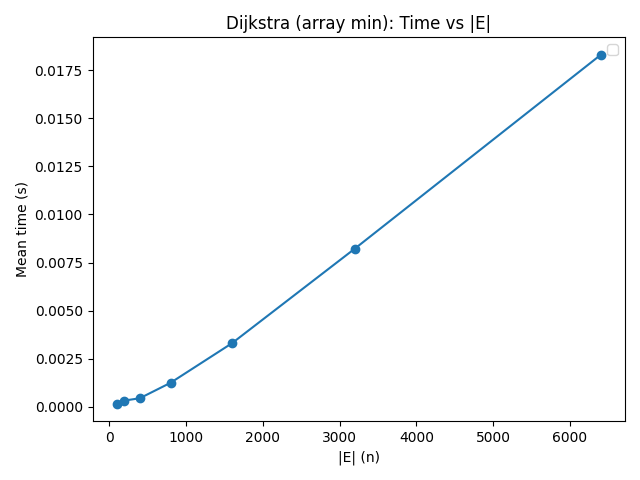
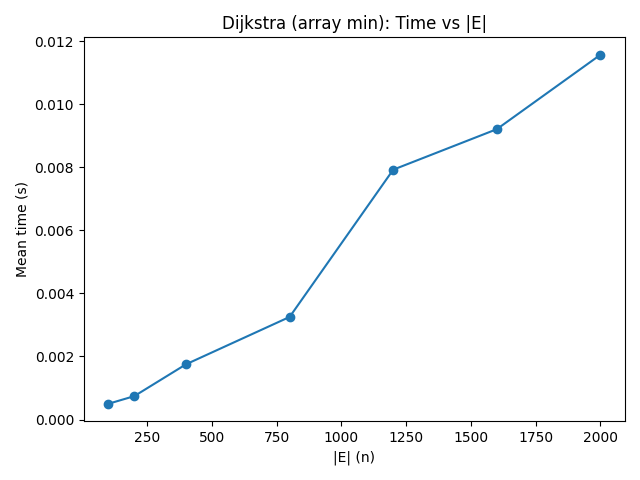
update to matrix

diff --git a/Dijkstra Priority.py b/Dijkstra Priority.py
@@ -4,51 +4,76 @@ import time
 
 
 # A
-def dijkstra(V, E, start):
-    V=set(V)
-    d = {node: float('inf') for node in V}
-    pi = {node: None for node in V}
-    S = set()
-    d[start] = 0
-    while len(S) < len(V):
-        unvisited = V - S
-        u = min(unvisited, key=lambda node: d[node])
-        if d[u] == float('inf'):
+def dijkstra(A, start):
+    n = len(A)    #|V|
+    d = [float('inf')] * n
+    pi = [None] * n
+    visited = [False] * n
+    d[start] = 0.0
+
+    for _ in range(n):
+        # Extract-min over unvisited vertices (linear |V|)
+        u = -1
+        best = float('inf')
+        for i in range(n):
+            if not visited[i] and d[i] < best:
+                u = i
+                best = d[i]
+        if u == -1:  # break on unreachable
             break
-        S.add(u)
-        for v, w in E[u]:
-            if d[u] + w < d[v]:
-                d[v] = d[u] + w
-                pi[v] = u
+
+        visited[u] = True
+
+        # Relax neighbours u -> v
+        Au = A[u]
+        du = d[u]
+        for v in range(n):
+            w = Au[v]
+            if not visited[v] and w != float('inf'):
+                alt = du + w
+                if alt < d[v]:
+                    d[v] = alt
+                    pi[v] = u
     return d, pi
 
 
-def make_graph(n, p, seed=0):
-    random.seed(seed)
-    V = list(range(n))
-    E = {u: [] for u in V}
-    m = 0
-    for i in range(n):
-        for j in range(n):
-            if i == j:
-                continue
-            if random.random() < p:
-                w = random.randint(1, 10)
-                E[i].append((j, float(w)))
-                m += 1
-    return V, E, m
 
-def time_trial(n, p, trials=3):
+def make_matrix(n, p, seed=0, w_low=1, w_high=10):
+    random.seed(seed)
+    A = [[float('inf')] * n for _ in range(n)]
+    for i in range(n):
+        A[i][i] = 0.0
+
+    nodes = list(range(n))
+    random.shuffle(nodes)
+    for i in range(1, n):
+        u = nodes[i]
+        v = nodes[random.randrange(0, i)]  # connect to a previous node
+        w = float(random.randint(w_low, w_high))
+        A[u][v] = A[v][u] = w
+
+    # 2) Add extra edges with prob p (avoid duplicates)
+    m = 2 * (n - 1)  # we count both directions
+    for i in range(n):
+        for j in range(i + 1, n):
+            if A[i][j] == float('inf') and random.random() < p:
+                w = float(random.randint(w_low, w_high))
+                A[i][j] = A[j][i] = w
+                m += 2
+    return A, m
+
+
+def time_trial(n, p, trials=10):
     ts,ms = [],[]
     for t in range(trials):
-        V, E, m = make_graph(n, p, seed=100+t)
+        A, m = make_matrix(n, p, seed=100+t)
         ms.append(m)
         t0 = time.perf_counter()
-        dijkstra(V, E, start=0)
+        dijkstra(A, start=0)
         t1 = time.perf_counter()
         ts.append(t1 - t0)
-        mean_t = sum(ts)/len(ts)
-        m_avg = sum(ms)/len(ms)
+    mean_t = sum(ts)/len(ts)
+    m_avg = sum(ms)/len(ms)
     return mean_t, m_avg
 
 def experiment():
@@ -206,9 +231,9 @@ def test(V, E):
     return t
 
 
-runs = 100
+runs = 50
 
-v_values = [100, 200, 400, 800, 1600, 3200, 6400]
+v_values = [100, 200, 400, 800, 1200, 1600, 2000]
 v_times = []
 for i in v_values:
     avg = 0
@@ -221,12 +246,12 @@ plt.plot(v_values, v_times, marker="o")
 plt.xlabel("|V| (n)")
 plt.ylabel("Mean time (s)")
 plt.title("Dijkstra (array min): Time vs |V|")
-plt.legend()
+#plt.legend()
 plt.tight_layout()
 plt.savefig("time vs v (heap).png")
 plt.close()
 
-e_values = [100, 200, 400, 800, 1600, 3200, 6400]
+e_values = [100, 200, 400, 800, 1200, 1600, 2000]
 e_times = []
 for i in e_values:
     avg = 0
@@ -239,28 +264,42 @@ plt.plot(e_values, e_times, marker="o")
 plt.xlabel("|E| (n)")
 plt.ylabel("Mean time (s)")
 plt.title("Dijkstra (array min): Time vs |E|")
-plt.legend()
+#plt.legend()
 plt.tight_layout()
 plt.savefig("time vs e (heap).png")
 plt.close()
 
 
-#C
-def time_comparision(n, p, trials=3):
-    times_array, times_heap, ms = [], [], []
-    for t in range(trials):
-        V, E, m = make_graph(n, p, seed=100+t)
-        ms.append(m)
+def matrix_to_adj(A):
+    """Convert adjacency matrix to adjacency list for dijkstra_heap."""
+    n = len(A)
+    adj = [[] for _ in range(n)]
+    for u in range(n):
+        row = A[u]
+        for v in range(n):
+            w = row[v]
+            if u != v and w != float('inf'):
+                adj[u].append([v, w])
+    return adj
 
+#C
+def time_comparision(n, p, trials=10):
+    times_array, times_heap, ms = [], [], []
+
+
+    for t in range(trials):
+        A, m = make_matrix(n, p, seed=100+t)
+        ms.append(m)
+        E = matrix_to_adj(A)
         # Array
         t0 = time.perf_counter()
-        dijkstra(V, E, start=0)
+        dijkstra(A, start=0)
         t1 = time.perf_counter()
         times_array.append(t1 - t0)
 
         # Heap
         t2 = time.perf_counter()
-        dijkstra_heap(len(V), E, 0)
+        dijkstra_heap(len(A), E, 0)
         t3 = time.perf_counter()
         times_heap.append(t3 - t2)
 
@@ -269,7 +308,7 @@ def time_comparision(n, p, trials=3):
             sum(ms)/len(ms))
 
 def experiment_comparision():
-    sizes = [100, 200, 400, 800, 1600, 3200, 6400]
+    sizes = [100, 200, 400, 800, 1200, 1600, 2000]
     ps = [0.05, 0.1, 0.2, 0.4]
     rows = []
     for p in ps:
